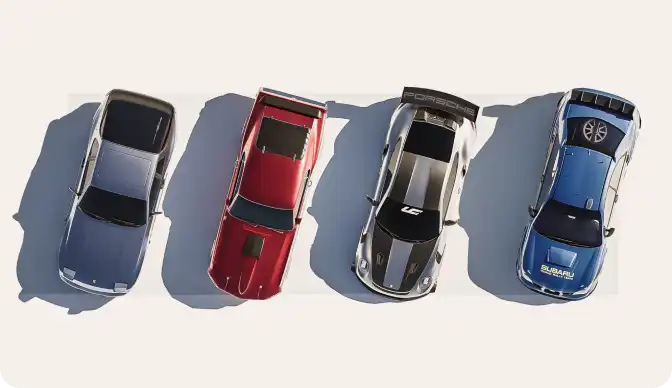
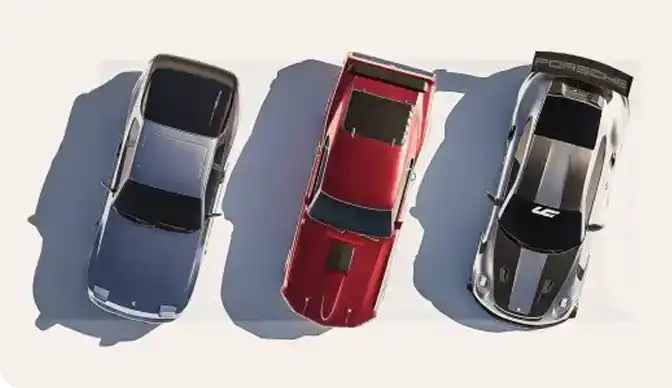
Update Car Assets

diff --git a/index.html b/index.html
@@ -501,12 +501,12 @@ You can also join our <a style="text-decoration:none" href="https://discord.gg/4
         <div class="car-models">
           <div class="car-models-included-container">
             <p class="everybody-needs-a">
-              <b>4 Car models Included</b>
+              <b>3 Car models Included</b>
             </p>
             <p class="hes-happy-to">Ready to use</p>
           </div>
           <div class="lc-comes-packed">
-            LC comes packed with 4 high quality vehicle models. All shaded and
+            LC comes with 3 high quality vehicle models. All shaded and
             ready to be rigged. Take advantage of the Asset Browser to quickly
             drop these into your projects.
           </div>
